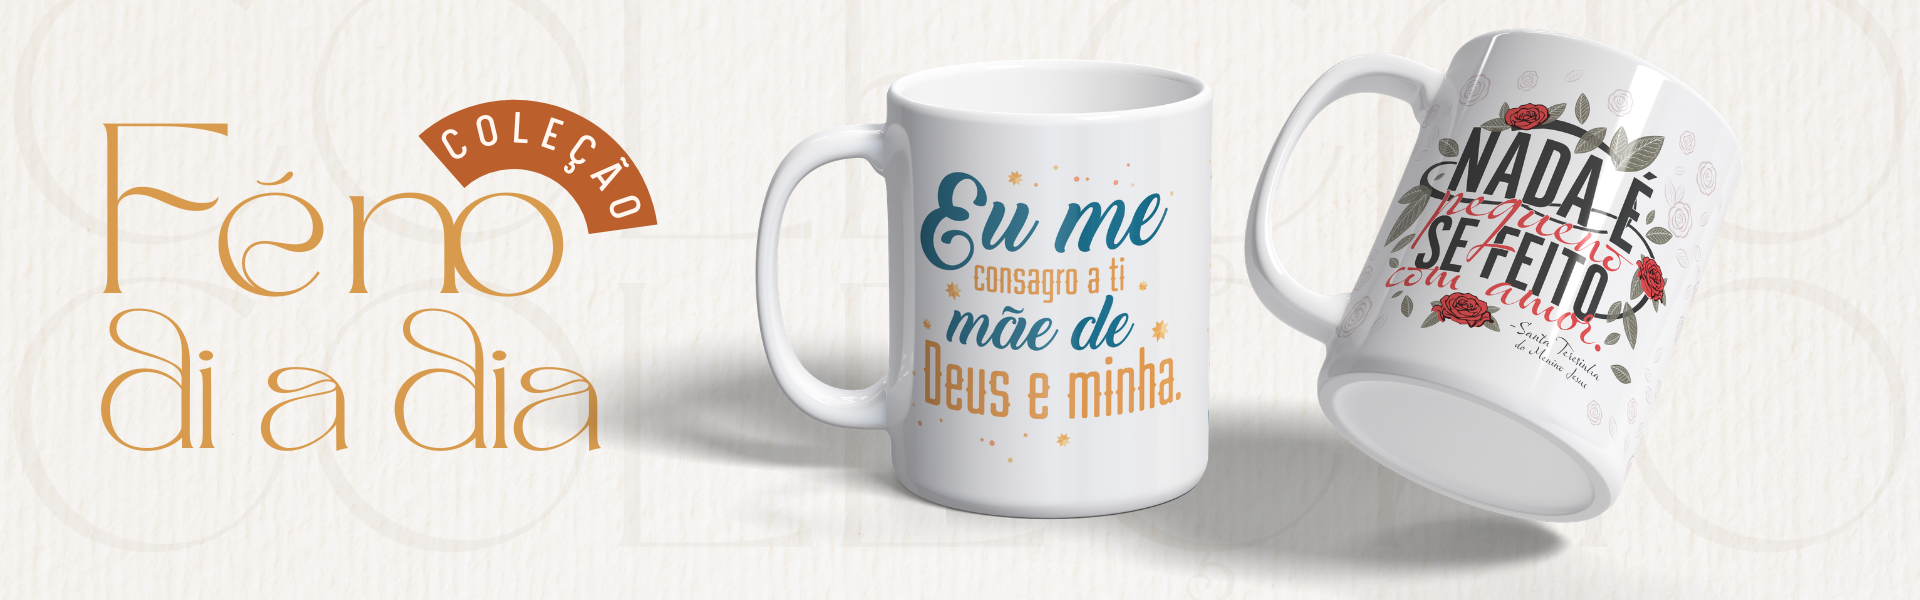
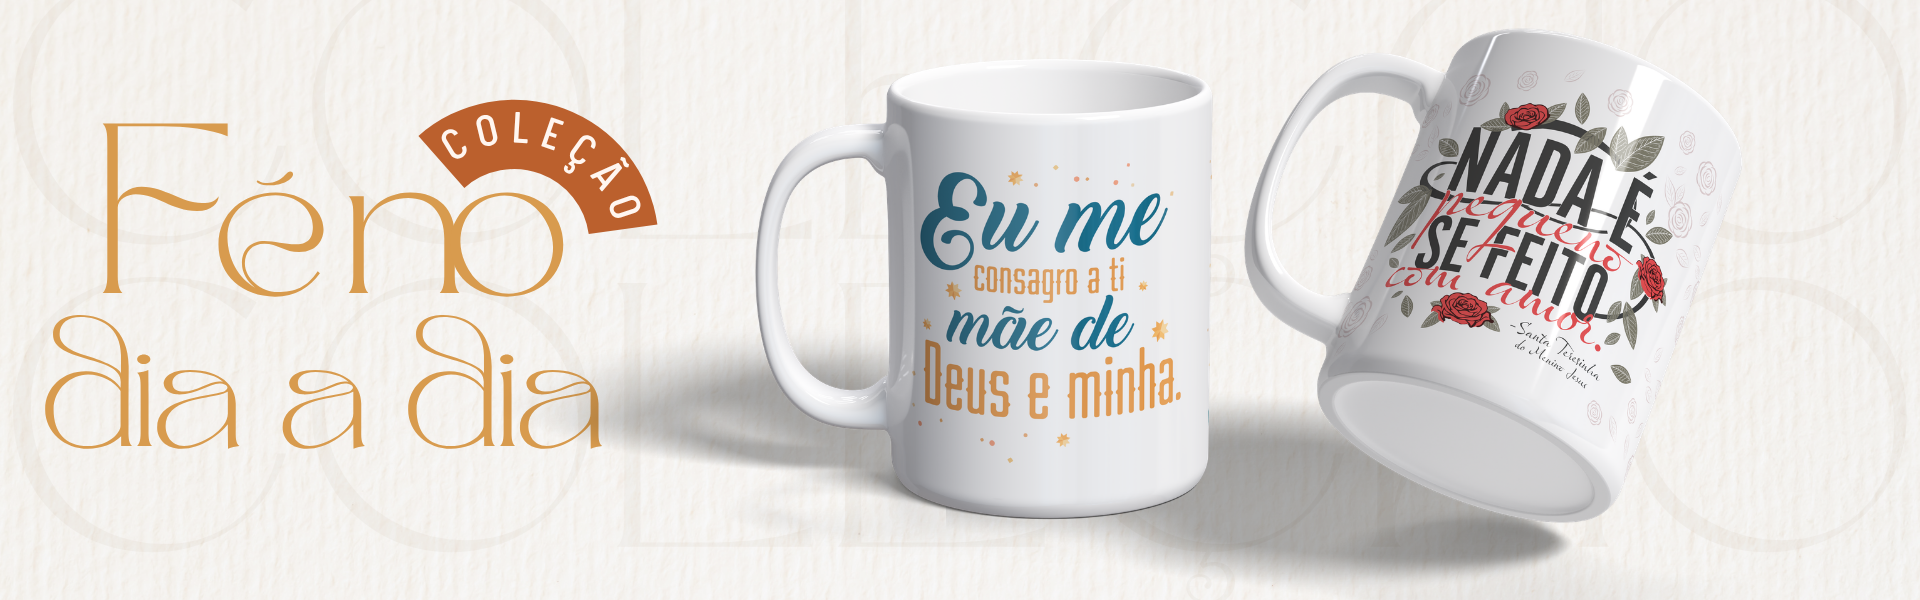
refactor: update images and alt

Changed region(s): [[0.0, 0.51, 0.3125, 0.75]]

diff --git a/src/pages/store/components/hero-section.tsx b/src/pages/store/components/hero-section.tsx
@@ -1,6 +1,6 @@
+import diaDasMaes from "@autoria/assets/images/dias-das-maes.png";
 import feNoDiaADia from "@autoria/assets/images/fe-no-dia-a-dia.png";
 import memoriasDeMinas from "@autoria/assets/images/memorias-de-minas.png";
-import petLovers from "@autoria/assets/images/pet-lovers.png";
 import {
 	Carousel,
 	CarouselContent,
@@ -27,11 +27,11 @@ export function HeroSection() {
 				}}
 			>
 				<CarouselContent>
-					<CarouselItem key="memorias-de-minas">
+					<CarouselItem key="dia-das-maes">
 						<img
-							src={memoriasDeMinas}
+							src={diaDasMaes}
 							className="aspect-[3.2] pointer-events-none"
-							alt="logo"
+							alt="Coleção de dia das mães"
 						/>
 					</CarouselItem>
 
@@ -39,17 +39,17 @@ export function HeroSection() {
 						<img
 							src={feNoDiaADia}
 							className="aspect-[3.2] pointer-events-none"
-							alt="store"
+							alt="Coleção fé no dia a dia"
 						/>
 					</CarouselItem>
-
+					{/* 
 					<CarouselItem key="pet-lovers">
 						<img
 							src={petLovers}
 							className="aspect-[3.2] pointer-events-none"
 							alt="logo"
 						/>
-					</CarouselItem>
+					</CarouselItem> */}
 				</CarouselContent>
 			</Carousel>
 		</section>

diff --git a/src/pages/products/components/product-card.tsx b/src/pages/products/components/product-card.tsx
@@ -52,7 +52,7 @@ export function ProductCard({ product }: ProductCardProps) {
 						className={`
               h-[160px] sm:h-[360px] rounded-lg object-cover bg-product-image
             `}
-						alt="logo"
+						alt={product.name}
 					/>
 
 					<CardTitle className="mx-auto my-0 text-sm sm:text-base text-center">
